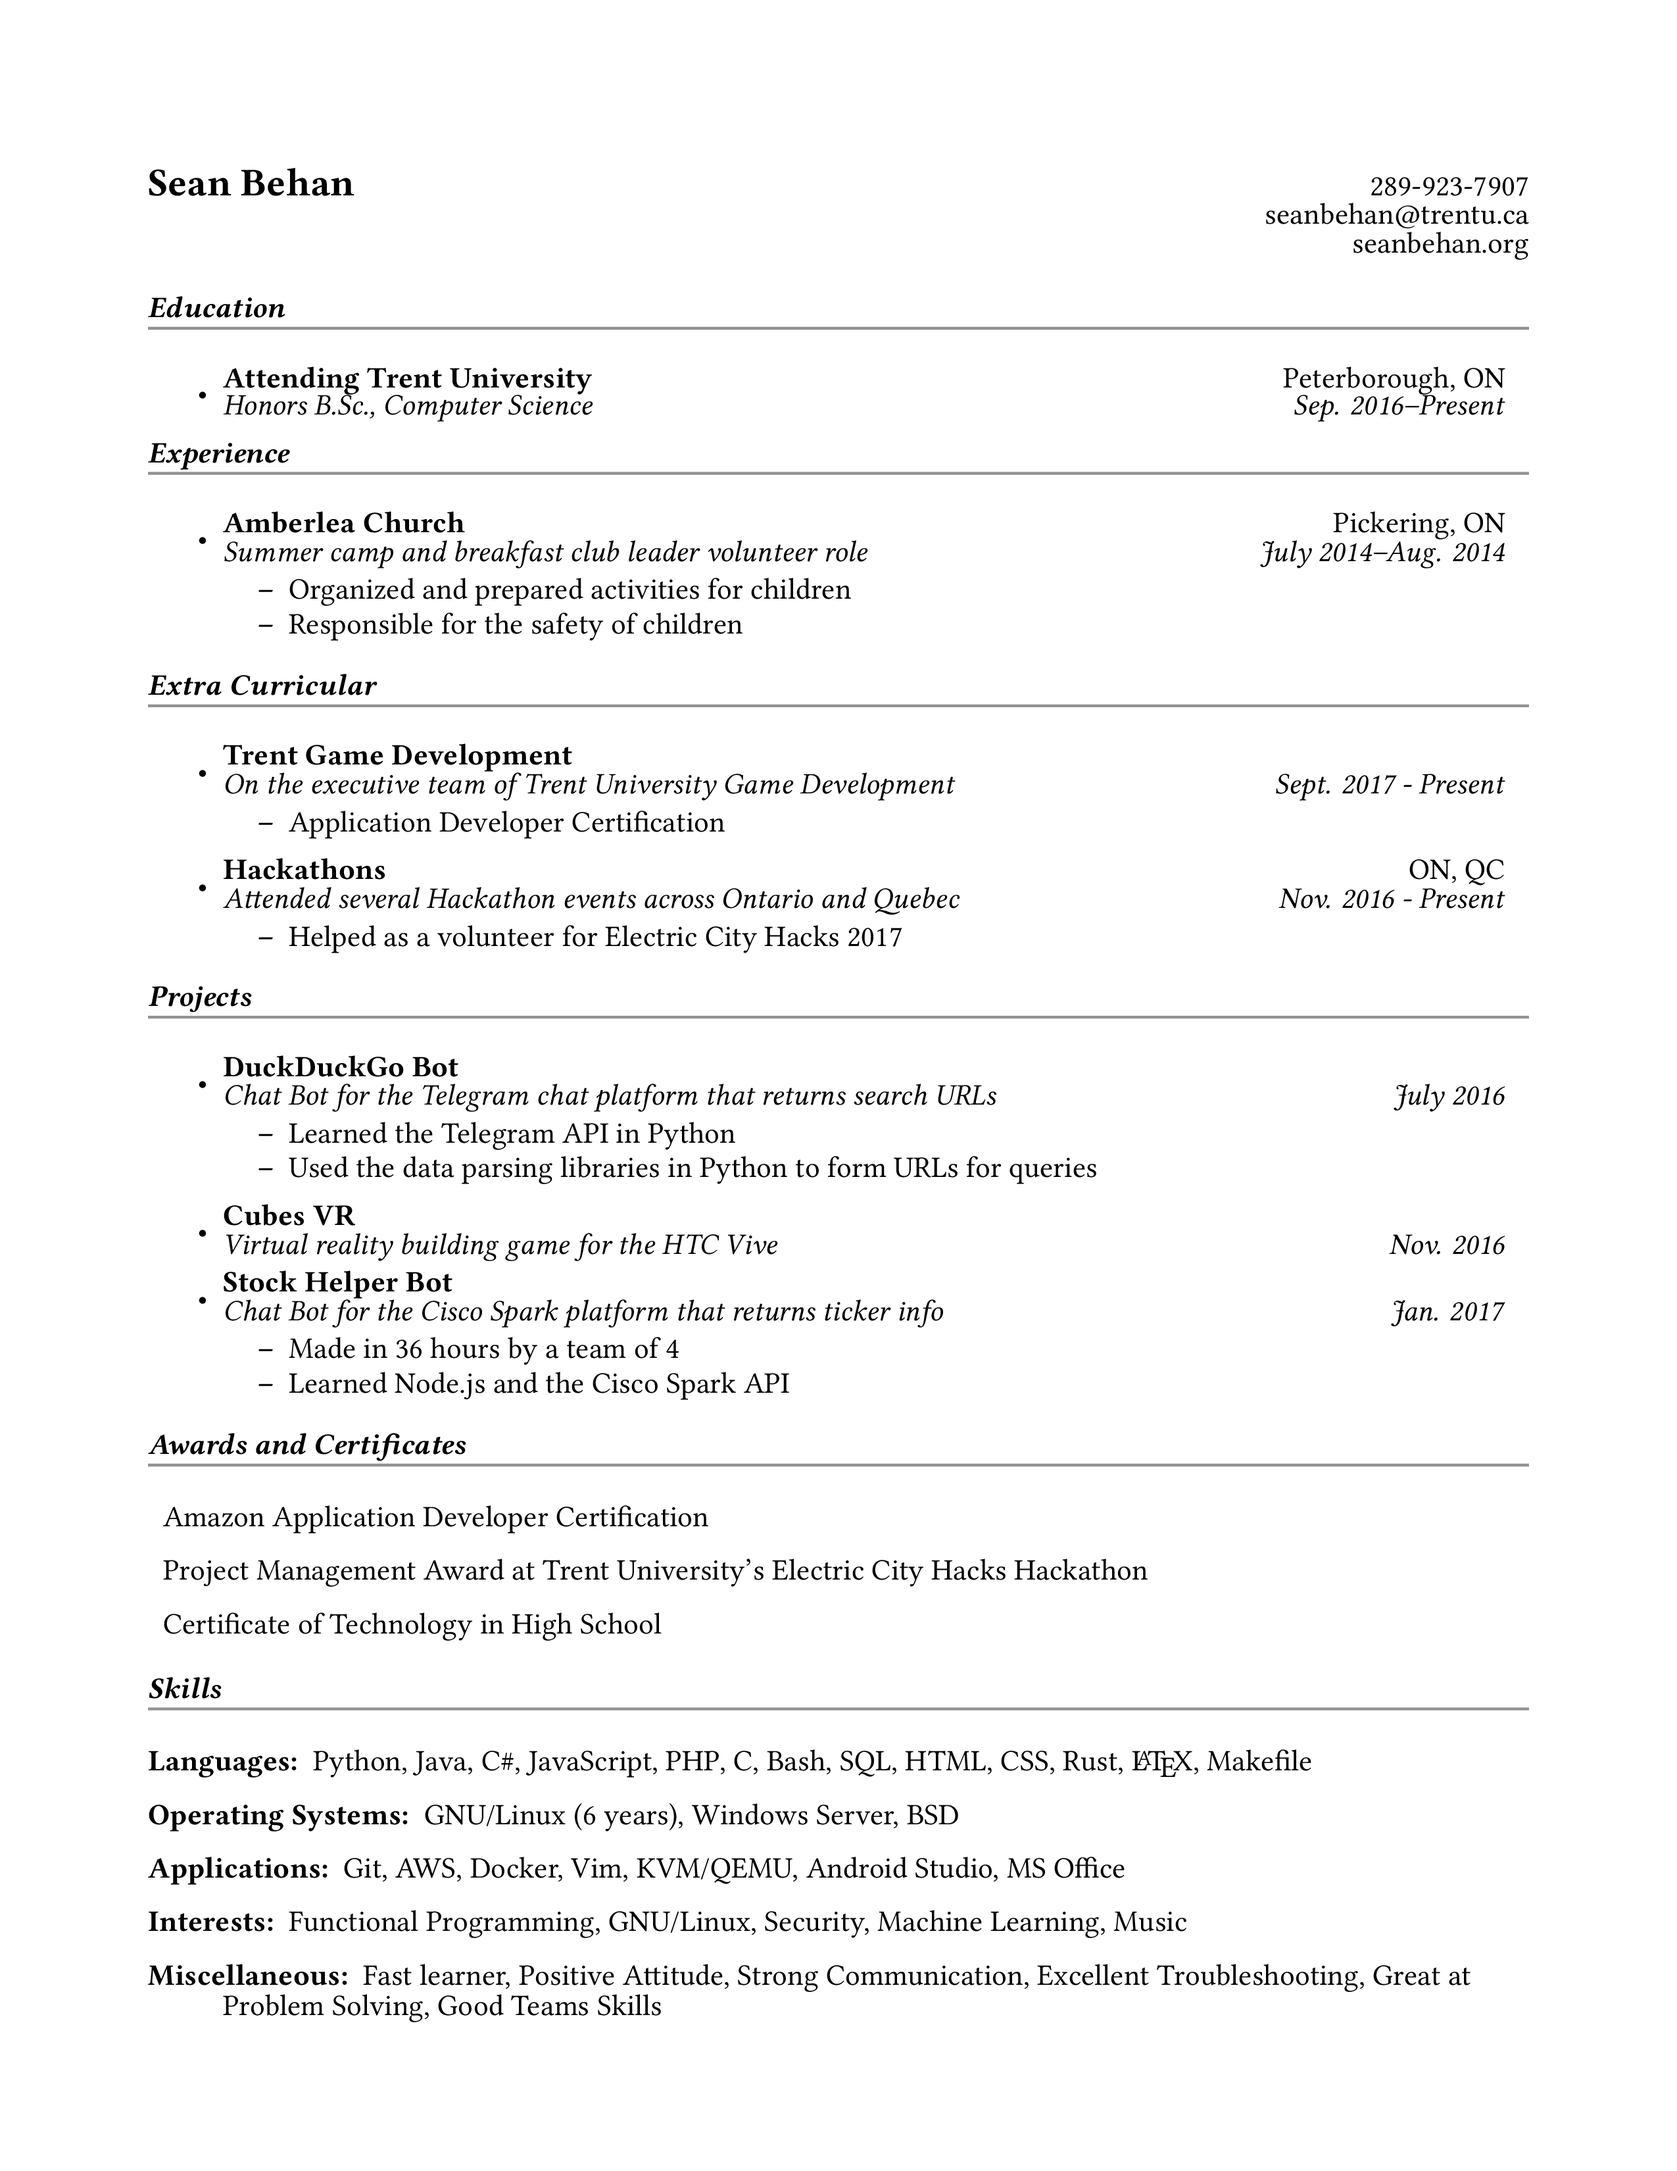
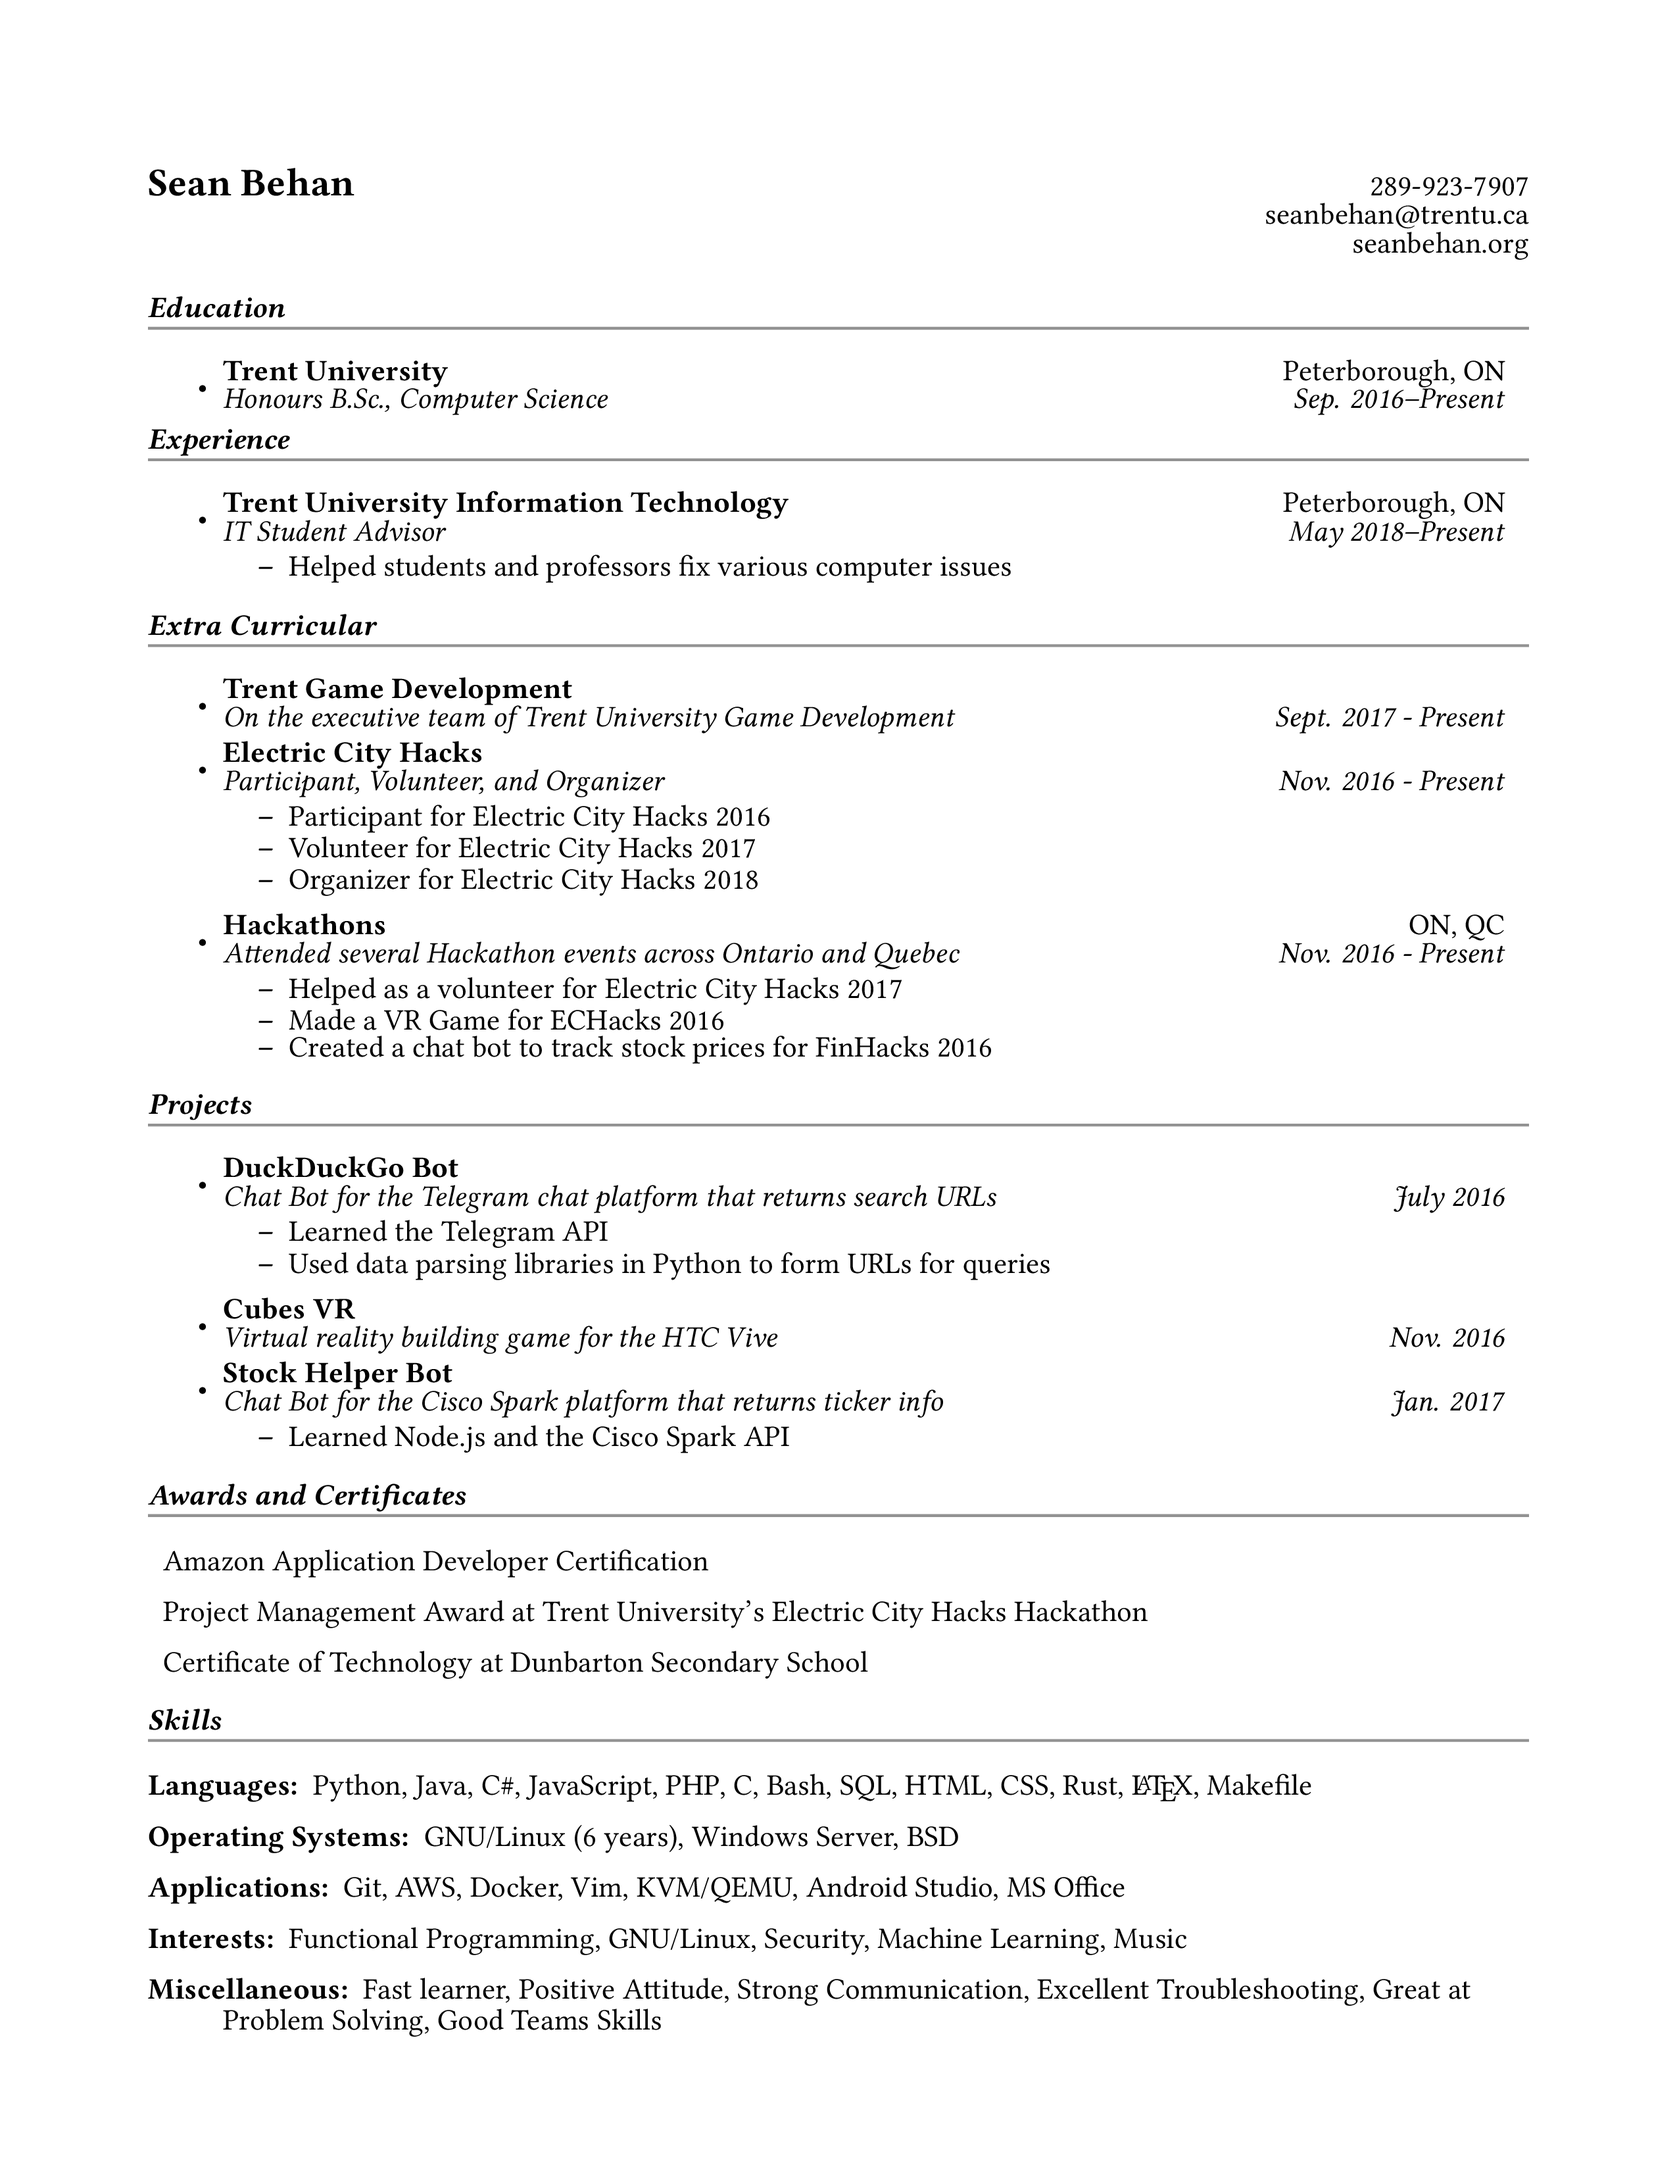
update

diff --git a/resume.tex b/resume.tex
@@ -65,7 +65,7 @@
 \mysection{Education}
 \begin{itemize}
     \item
-        \ressubheading{Attending Trent University}{Peterborough, ON}{Honors B.Sc., Computer Science}{Sep. 2016--Present}
+        \ressubheading{Trent University}{Peterborough, ON}{Honours B.Sc., Computer Science}{Sep. 2016--Present}
         \iffalse{} % comment
     \item
         \ressubheading{Dunbarton High School}{Pickering, ON}{Graduated with Diploma}{Sep. 2012--June 2016}
@@ -75,10 +75,9 @@
 \mysection{Experience}
 \begin{itemize}
     \item
-        \ressubheading{Amberlea Church}{Pickering, ON}{Summer camp and breakfast club leader volunteer role}{July 2014--Aug. 2014}
+        \ressubheading{Trent University Information Technology}{Peterborough, ON}{IT Student Advisor}{May 2018--Present}
         \begin{itemize}
-                \resitem{Organized and prepared activities for children}
-                \resitem{Responsible for the safety of children}
+                \resitem{Helped students and professors fix various computer issues}
         \end{itemize}
 \end{itemize}
 
@@ -88,14 +87,21 @@
     \item
         \ressubheading{Trent Game Development}{}{On the executive team of 
         Trent University Game Development}{Sept. 2017 - Present}
+    \item
+        %\begin{tabular*}{6.5in}{l@{\extracolsep{\fill}}r}
+        \ressubheading{Electric City Hacks}{}{Participant, Volunteer, and Organizer}{Nov. 2016 - Present}
         \begin{itemize}
-                \resitem{Application Developer Certification}
+                \resitem{Participant for Electric City Hacks 2016}
+                \resitem{Volunteer for Electric City Hacks 2017}
+                \resitem{Organizer for Electric City Hacks 2018}
         \end{itemize}
     \item
         %\begin{tabular*}{6.5in}{l@{\extracolsep{\fill}}r}
         \ressubheading{Hackathons}{ON, QC}{Attended several Hackathon events across Ontario and Quebec}{Nov. 2016 - Present}
         \begin{itemize}
                 \resitem{Helped as a volunteer for Electric City Hacks 2017}
+                \resitem{Made a VR Game for ECHacks 2016}
+                \resitem{Created a chat bot to track stock prices for FinHacks 2016}
         \end{itemize}
 \end{itemize}
         %\end{tabular*}
@@ -106,8 +112,8 @@
     \item
         \ressubheading{DuckDuckGo Bot}{}{Chat Bot for the Telegram chat platform that returns search URLs}{July 2016}
         \begin{itemize}
-                \resitem{Learned the Telegram API in Python}
-                \resitem{Used the data parsing libraries in Python to form URLs for queries}
+                \resitem{Learned the Telegram API}
+                \resitem{Used data parsing libraries in Python to form URLs for queries}
         \end{itemize}
 
     \item
@@ -116,7 +122,6 @@
     \item
         \ressubheading{Stock Helper Bot}{}{Chat Bot for the Cisco Spark platform that returns ticker info}{Jan. 2017}
         \begin{itemize}
-                \resitem{Made in 36 hours by a team of 4}
                 \resitem{Learned Node.js and the Cisco Spark API}
         \end{itemize}
 \end{itemize}
@@ -128,7 +133,7 @@
 \begin{description}
     \item Amazon Application Developer Certification
     \item Project Management Award at Trent University's Electric City Hacks Hackathon
-    \item Certificate of Technology in High School
+    \item Certificate of Technology at Dunbarton Secondary School
 \end{description}
 %Project Management Award & Trent University's hackathon\\
 %Certificate of Technology & High School\\
